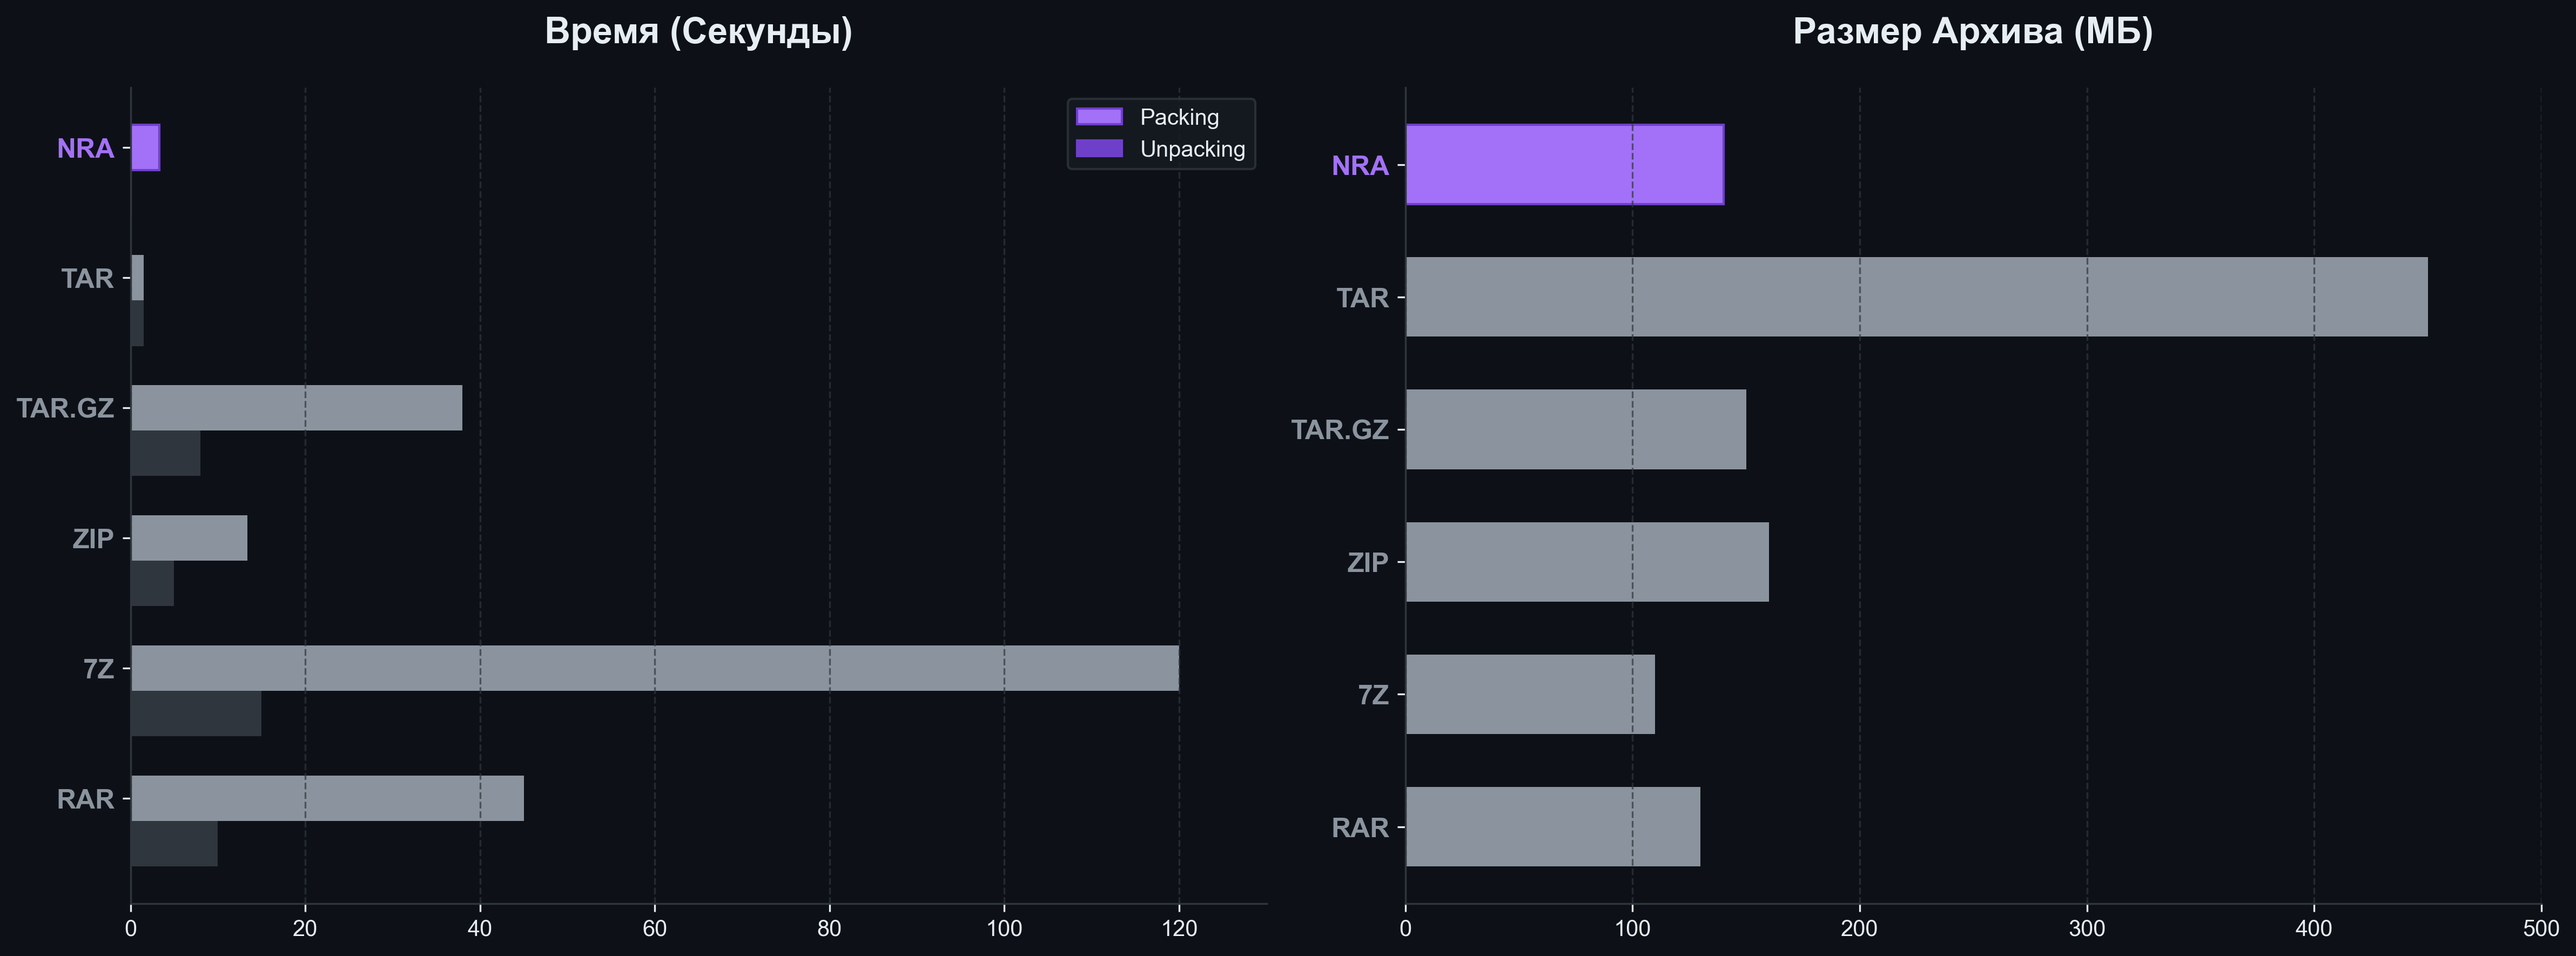
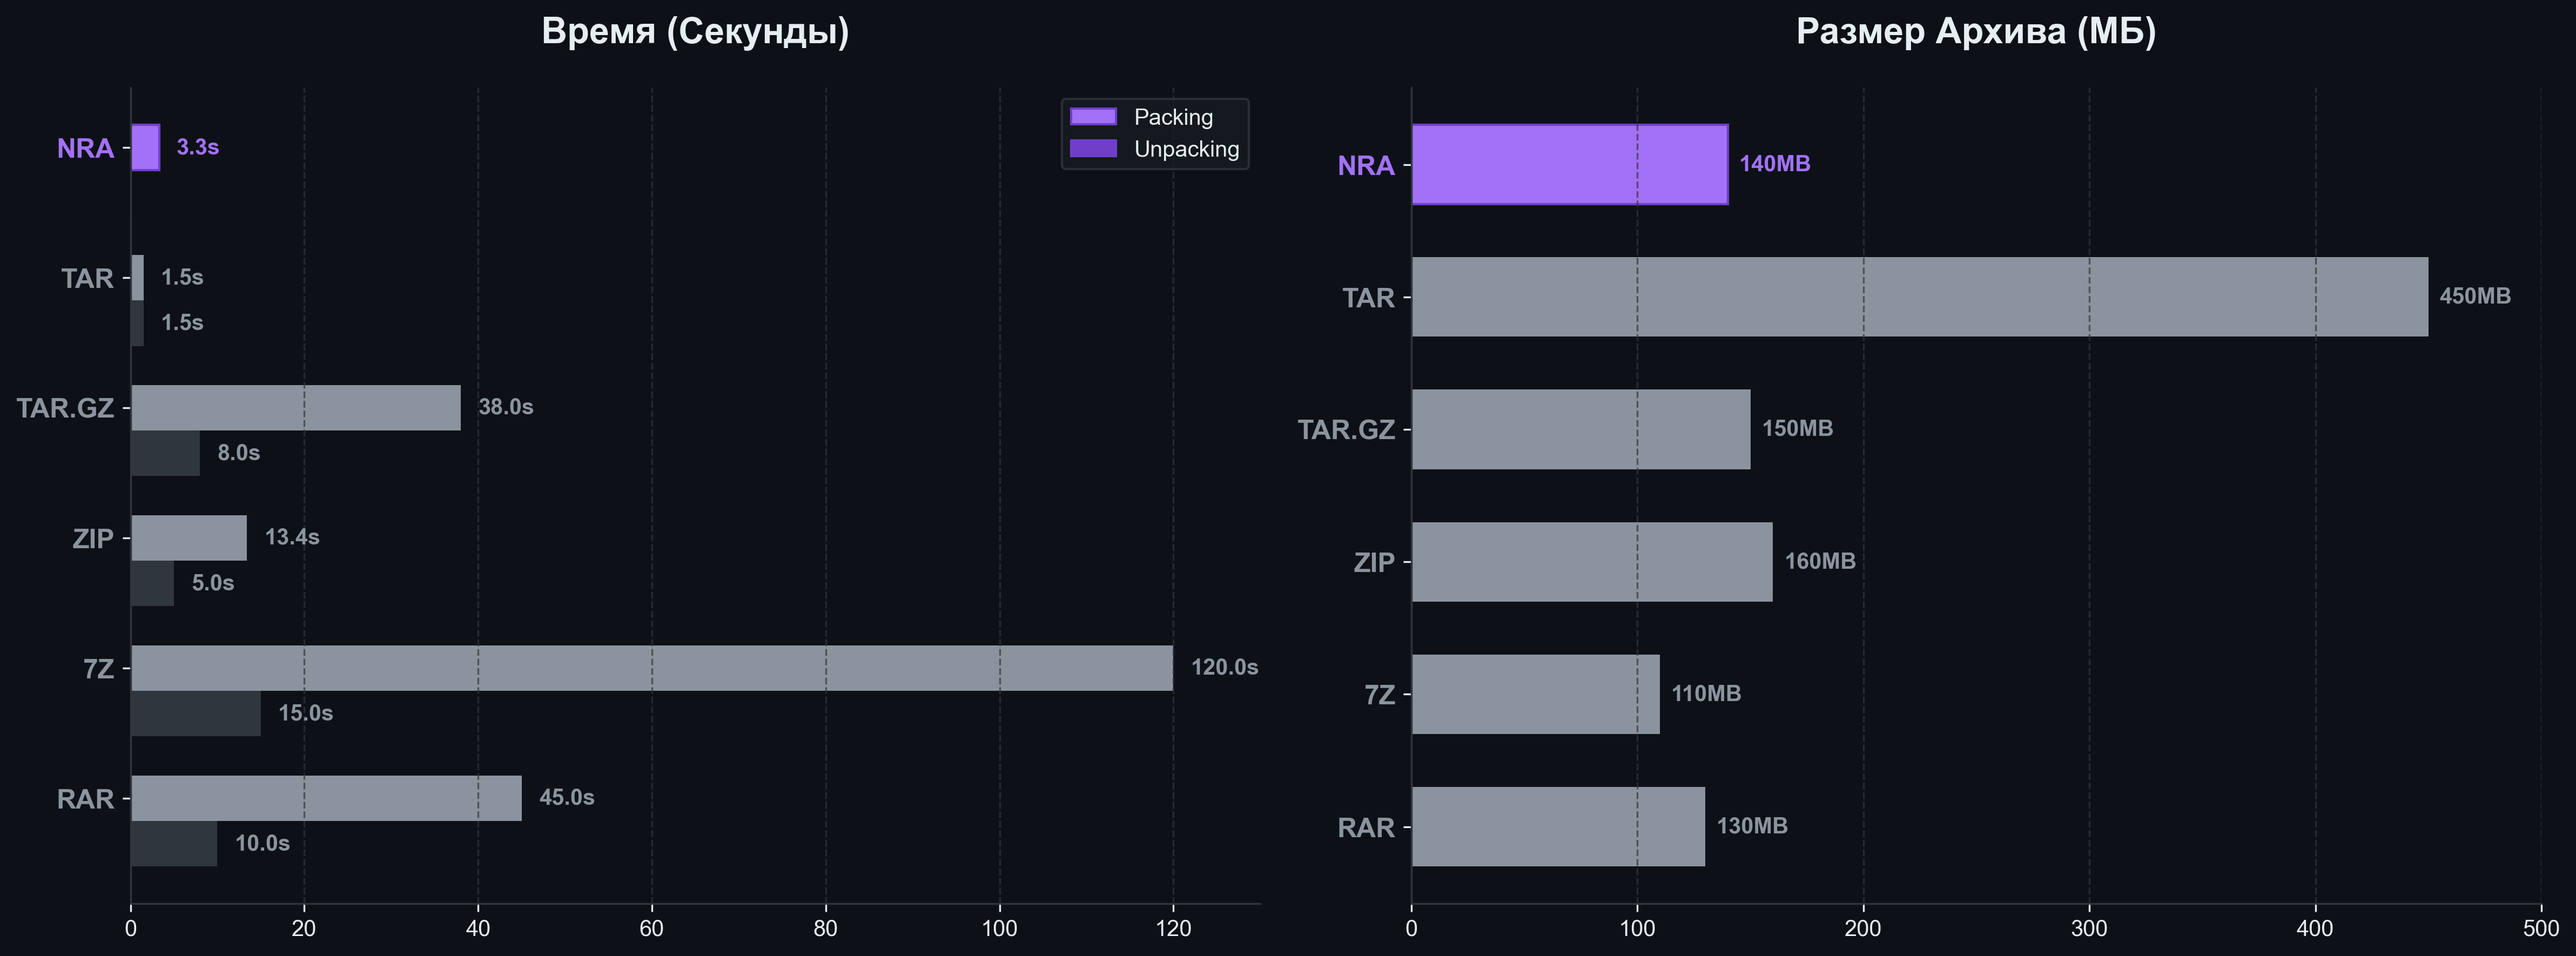
fix: radar grid zorder and bar chart animated labels

diff --git a/scripts/render_charts.py b/scripts/render_charts.py
@@ -102,7 +102,8 @@ def create_radar_chart(lang="en", animated=True):
     ax.set_ylim(0, 5)
     
     ax.spines['polar'].set_color(GRID_COLOR)
-    ax.grid(color=GRID_COLOR, linestyle='--', alpha=0.5)
+    ax.grid(color=GRID_COLOR, linestyle='--', alpha=0.5, zorder=10)
+    ax.set_axisbelow(False) # Draw grid lines on top of patches
     
     title = 'NRA vs Legacy Formats' if lang == "en" else 'NRA против устаревших форматов'
     plt.title(title, size=20, color=TEXT_COLOR, y=1.1, fontweight='bold')
@@ -200,6 +201,10 @@ def create_bar_chart(lang="en", animated=True):
     bars_unpack = ax1.barh(y_pos + 0.35, [0]*len(formats), height=0.35, align='center', color=GRID_COLOR, label='Unpacking')
     bars_size = ax2.barh(y_pos, [0]*len(formats), height=0.6, align='center', color=MUTED_GREY)
     
+    texts_pack = [ax1.text(0, y_pos[i], "", va='center', color=ACCENT_PURPLE if formats[i]=='NRA' else MUTED_GREY, fontweight='bold') for i in range(len(formats))]
+    texts_unpack = [ax1.text(0, y_pos[i] + 0.35, "", va='center', color=DARK_PURPLE if formats[i]=='NRA' else MUTED_GREY, fontweight='bold', fontsize=10) for i in range(len(formats))]
+    texts_size = [ax2.text(0, y_pos[i], "", va='center', color=ACCENT_PURPLE if formats[i]=='NRA' else MUTED_GREY, fontweight='bold') for i in range(len(formats))]
+
     for i in range(len(formats)):
         if formats[i] == 'NRA':
             bars_pack[i].set_color(ACCENT_PURPLE)
@@ -228,11 +233,25 @@ def create_bar_chart(lang="en", animated=True):
                 else:
                     prog = ease_out_cubic((frame - start_f) / frames_per_format)
                 
-                bars_pack[i].set_width(pack_time[i] * prog)
-                bars_unpack[i].set_width(unpack_time[i] * prog)
-                bars_size[i].set_width(sizes[i] * prog)
+                cur_pack = pack_time[i] * prog
+                cur_unpack = unpack_time[i] * prog
+                cur_size = sizes[i] * prog
                 
-            return list(bars_pack) + list(bars_unpack) + list(bars_size)
+                bars_pack[i].set_width(cur_pack)
+                bars_unpack[i].set_width(cur_unpack)
+                bars_size[i].set_width(cur_size)
+                
+                if cur_pack > 0.5:
+                    texts_pack[i].set_position((cur_pack + 2, y_pos[i]))
+                    texts_pack[i].set_text(f"{cur_pack:.1f}s")
+                if cur_unpack > 0.5:
+                    texts_unpack[i].set_position((cur_unpack + 2, y_pos[i] + 0.35))
+                    texts_unpack[i].set_text(f"{cur_unpack:.1f}s")
+                if cur_size > 0.5:
+                    texts_size[i].set_position((cur_size + 5, y_pos[i]))
+                    texts_size[i].set_text(f"{int(cur_size)}MB")
+                
+            return list(bars_pack) + list(bars_unpack) + list(bars_size) + texts_pack + texts_unpack + texts_size
 
         out_path = f"../docs/assets/archiver_benchmark{suffix}.gif"
         anim = FuncAnimation(fig, update, frames=total_anim_frames + PAUSE_FRAMES, interval=1000/FPS, blit=False)
@@ -242,6 +261,13 @@ def create_bar_chart(lang="en", animated=True):
             bars_pack[i].set_width(pack_time[i])
             bars_unpack[i].set_width(unpack_time[i])
             bars_size[i].set_width(sizes[i])
+            texts_pack[i].set_position((pack_time[i] + 2, y_pos[i]))
+            texts_pack[i].set_text(f"{pack_time[i]:.1f}s")
+            if unpack_time[i] > 0:
+                texts_unpack[i].set_position((unpack_time[i] + 2, y_pos[i] + 0.35))
+                texts_unpack[i].set_text(f"{unpack_time[i]:.1f}s")
+            texts_size[i].set_position((sizes[i] + 5, y_pos[i]))
+            texts_size[i].set_text(f"{int(sizes[i])}MB")
             
         out_path = f"../docs/assets/archiver_benchmark{suffix}.png"
         plt.tight_layout()
